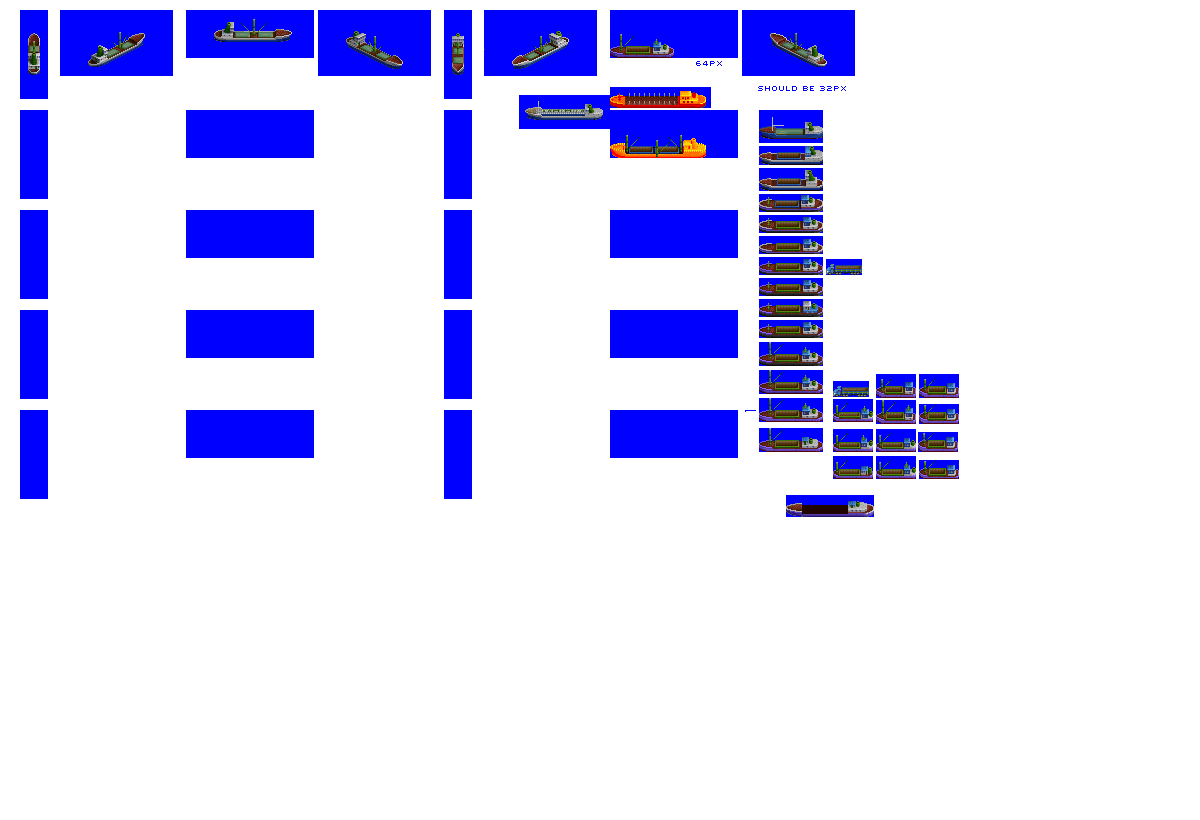
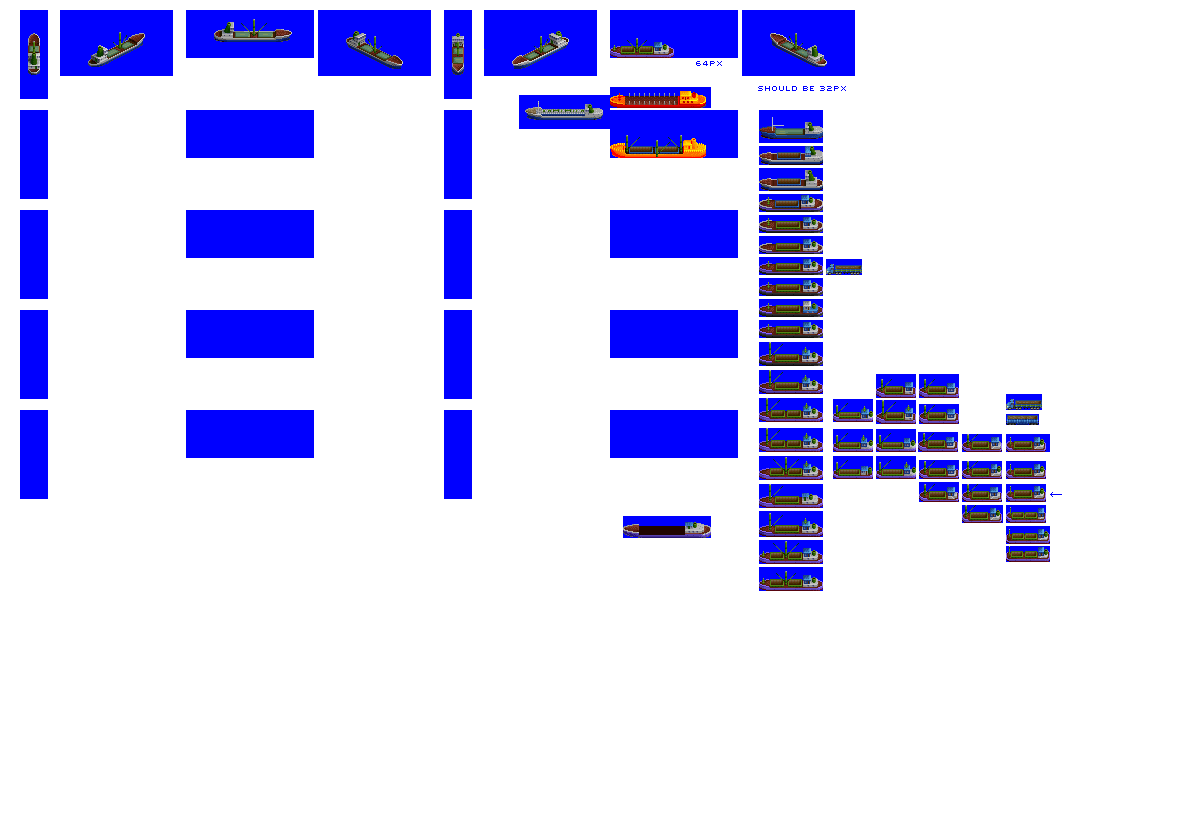
Change: WIP on smallest universal freighters

Changed region(s): [[0.5242, 0.4573, 0.8942, 0.7317], [0.6783, 0.4573, 0.74, 0.4878], [0.5242, 0.0305, 0.555, 0.061]]

diff --git a/src/ship.py b/src/ship.py
@@ -232,7 +232,7 @@ class Ship(object):
         # currently contains no provision for custom widths
         # but if needed, add _buy_menu_width from constructor kwargs, and check existence of that here
         # standard sizes are multiples of 32, except first size, where 32 is just too small to make a nice sprite
-        widths = {'micro': 40, 'mini': 64, 'small': 96, 'large': 128}
+        widths = {'micro': 44, 'mini': 64, 'small': 96, 'large': 128}
         return widths[self.hull.size_class]
 
     @property
